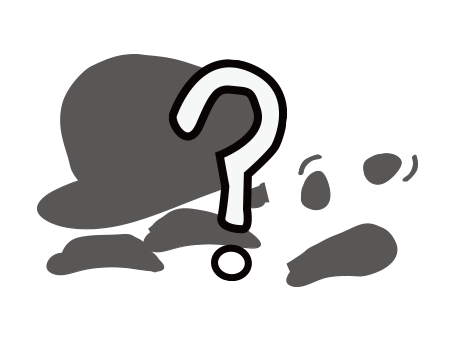
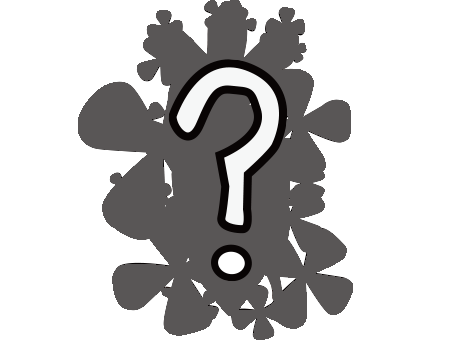
新增新版NPC 修改舊版NPC

Changed region(s): [[0.0617, 0.0, 0.8943, 1.0], [0.8018, 0.4412, 0.9251, 0.5588], [0.3392, 0.4706, 0.4934, 0.6471]]

diff --git a/index.html b/index.html
@@ -653,18 +653,25 @@ function growup(){
 			changeIMG(type);
 			lastType = type;
 		}
-	}else{
-	
+	}else if( wrongANS >= 3 && rightANS >= (wrongANS) * 3){
+			type = 3;
+			changeIMG(type);
 	}
 	
 	
 }
 
 function changeIMG(type){
+	T = type;
 	if( who == 2){
 		$('.agent').attr("src","agent/NO"+type+".png");
 	}else if(who == 1){
 		$('.agent').attr("src","agent/RNO"+type+".png");
+	}else if (T=3){
+		if( who == 2){
+			$('.agent').attr("src","agent/appearA2NPC.png");
+		}else(who == 1){
+			$('.agent').attr("src","agent/appearA1NPC.png");
 	}
 }
 
